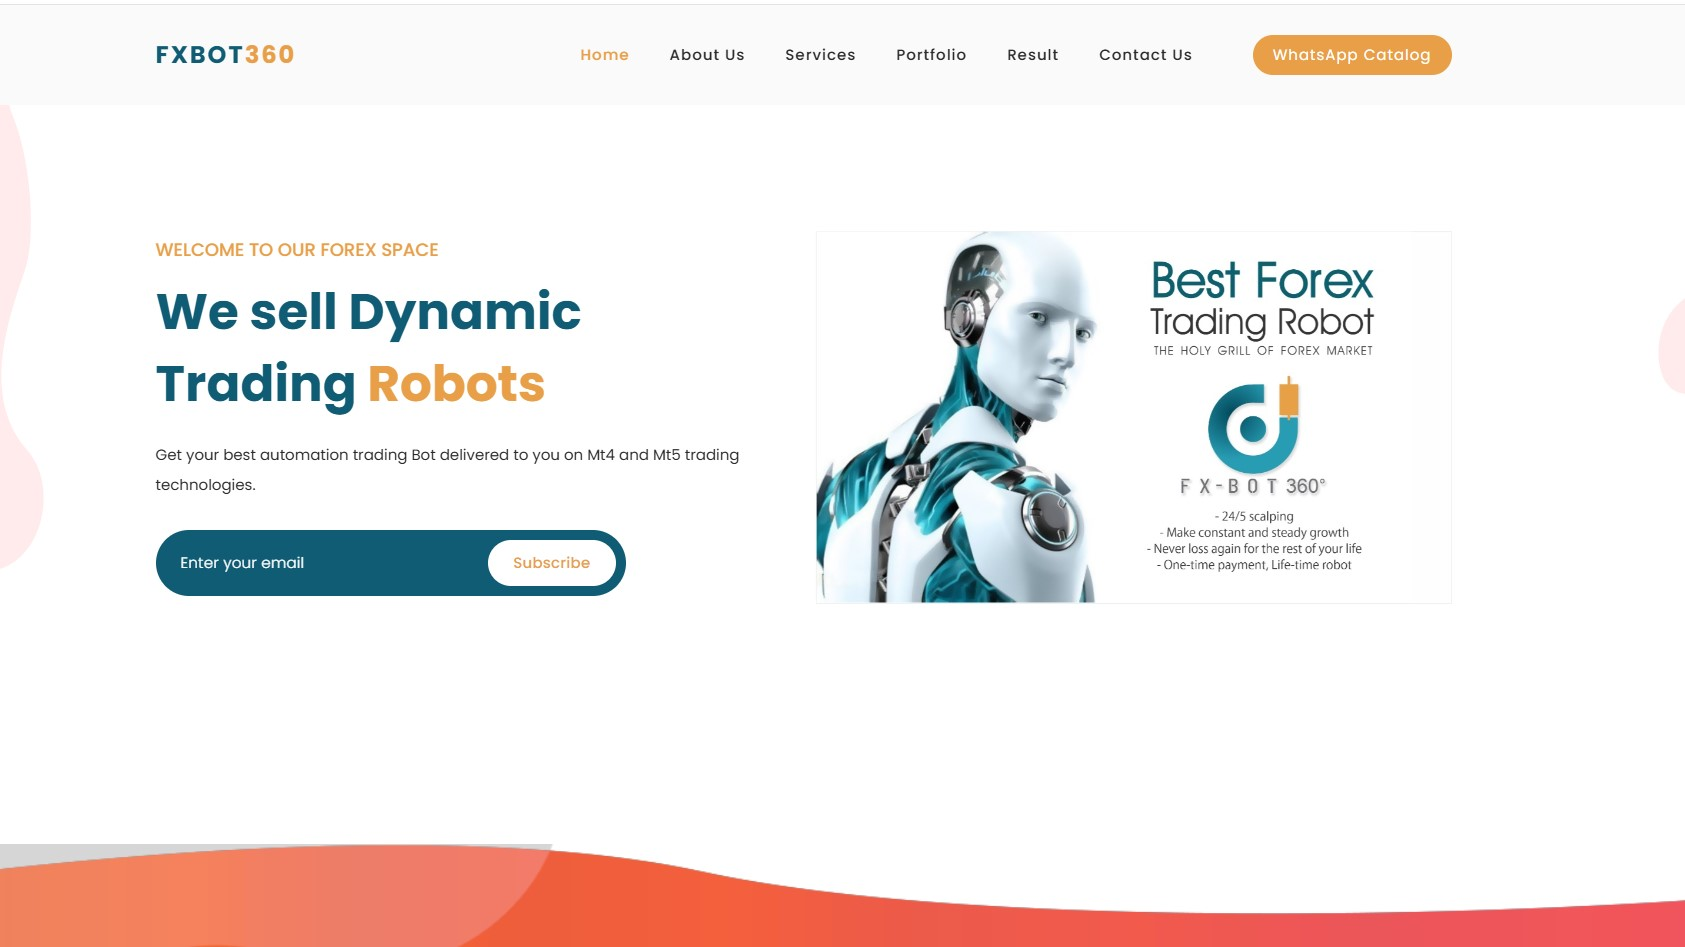
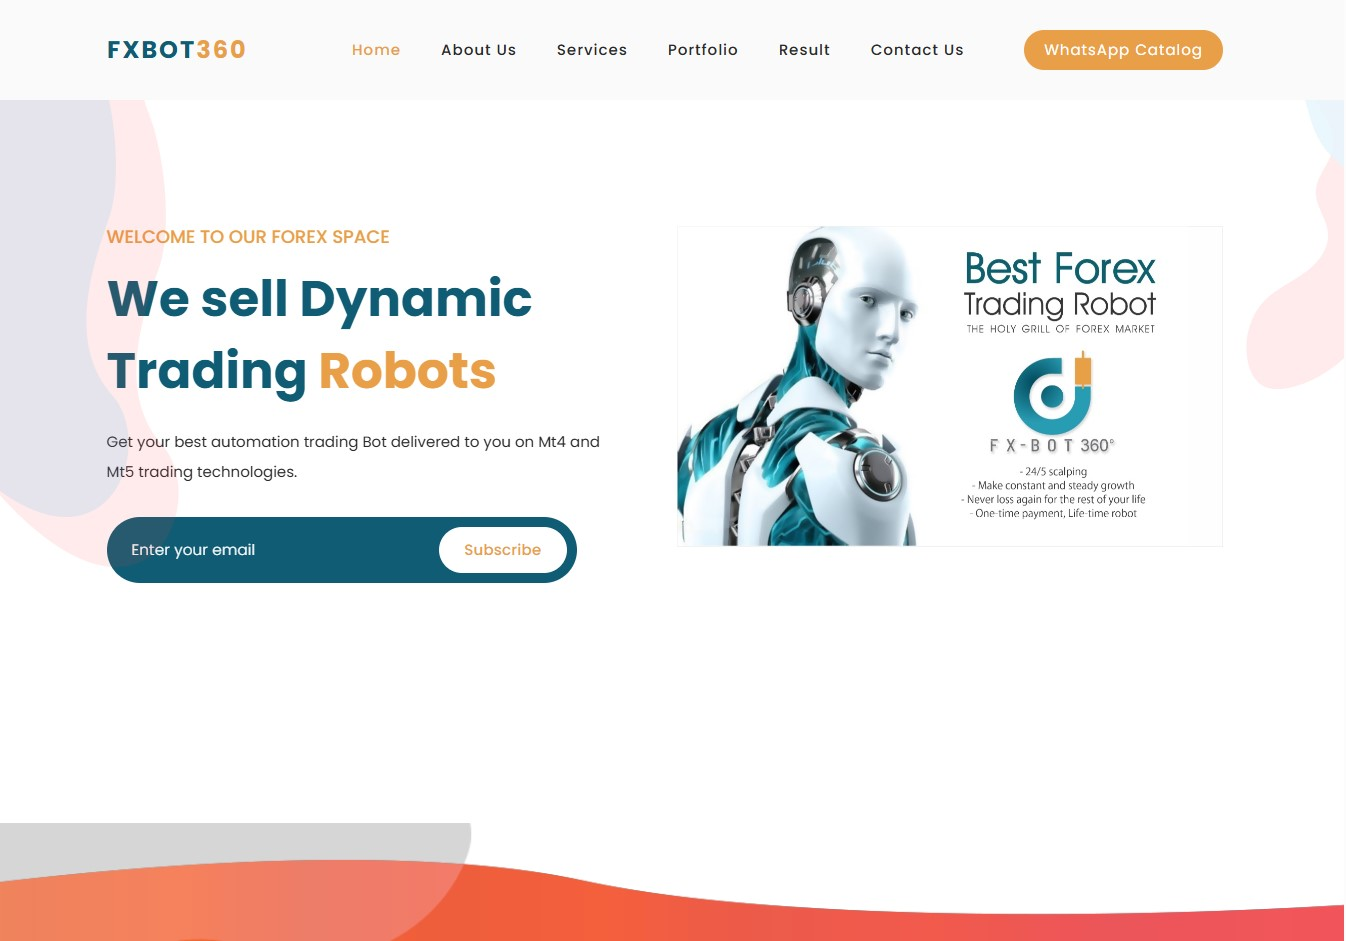
professional touches:::: total UI/Ux revamping

diff --git a/src/components/portfolio/Portfolio.jsx b/src/components/portfolio/Portfolio.jsx
@@ -7,9 +7,8 @@ import aimedcare from "../../assets/project_img/aiMedcare.JPG";
 import azana from "../../assets/project_img/azana.png";
 import vvs from "../../assets/project_img/vvs.png";
 import bead from "../../assets/project_img/beadPage.jpg";
-// import fxbot from "../../assets/project_img/fxbot360.jpg";
-import fxbot360 from "../../assets/project_img/fxbot360.jpg";
 import eugym from "../../assets/project_img/eugym.jpg";
+import fxbo360 from "../../assets/project_img/fxbot360.jpg";
 
 const data = [
   {
